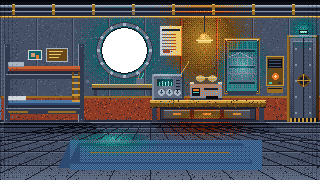
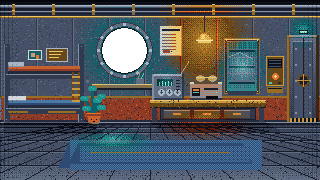
Add generative music, Chuck the plant, out-of-gas chainsaw

Changed region(s): [[0.25, 0.4722, 0.3438, 0.6944]]

diff --git a/src/audio/audio.ts b/src/audio/audio.ts
@@ -22,6 +22,7 @@ export class AudioEngine {
       const d = this.noiseBuf.getChannelData(0);
       for (let i = 0; i < len; i++) d[i] = Math.random() * 2 - 1;
       this.startAmbience();
+      this.startMusic();
     } catch { this.ctx = undefined; }
   }
 
@@ -46,12 +47,13 @@ export class AudioEngine {
   setRoom(room: string) {
     if (!this.amb || !this.ctx) return;
     const t = this.ctx.currentTime;
-    const cfg = { workshop: [60, 320, 520, 0.05], converter: [48, 200, 260, 0.075], quarters: [72, 240, 700, 0.04] }[room] ?? [55, 260, 500, 0.05];
+    const cfg = { workshop: [60, 320, 520, 0.03], converter: [48, 200, 260, 0.045], quarters: [72, 240, 700, 0.025] }[room] ?? [55, 260, 500, 0.05];
     this.amb.hum.frequency.setTargetAtTime(cfg[0], t, 0.4);
     this.amb.hum2.frequency.setTargetAtTime(cfg[0] * 2.01, t, 0.4);
     this.amb.filt.frequency.setTargetAtTime(cfg[1], t, 0.4);
     this.amb.nfilt.frequency.setTargetAtTime(cfg[2], t, 0.4);
     this.amb.gain.gain.setTargetAtTime(cfg[3], t, 0.4);
+    this.roomDensity = { workshop: 0.5, converter: 0.35, quarters: 0.45 }[room] ?? 0.45;
   }
 
   private env(g: GainNode, t: number, a: number, peak: number, d: number) {
@@ -96,6 +98,69 @@ export class AudioEngine {
       case 'door': this.noise(t, 0.35, 0.28, 'lowpass', 700, 120); this.tone('sawtooth', 80, 50, t, 0.3, 0.1); break;
       default: break;
     }
+  }
+
+  // ---- generative music: slow minor pads, a soft bass and sparse echoing plucks
+  private musicBus?: GainNode;
+  private musicTimer = 0;
+  private nextBar = 0;
+  private bar = 0;
+  private roomDensity = 0.45;
+  private static CHORDS = [
+    [146.8, 174.6, 220, 329.6], // Dm9
+    [116.5, 146.8, 174.6, 220], // Bbmaj7
+    [196, 233.1, 293.7, 440], // Gm
+    [110, 146.8, 164.8, 196], // A7sus4
+  ];
+  private static PLUCK = [587.3, 698.5, 784, 880, 1046.5, 1174.7];
+
+  private startMusic() {
+    const c = this.ctx!;
+    const bus = c.createGain(); bus.gain.value = 0.9;
+    const dry = c.createGain(); dry.gain.value = 0.8;
+    const delay = c.createDelay(1.5); delay.delayTime.value = 0.62;
+    const fb = c.createGain(); fb.gain.value = 0.38;
+    const lp = c.createBiquadFilter(); lp.type = 'lowpass'; lp.frequency.value = 1800;
+    bus.connect(dry); dry.connect(this.master!);
+    bus.connect(delay); delay.connect(lp); lp.connect(fb); fb.connect(delay); lp.connect(this.master!);
+    this.musicBus = bus;
+    this.nextBar = c.currentTime + 0.3;
+    this.musicTimer = window.setInterval(() => this.scheduleMusic(), 300);
+  }
+
+  private scheduleMusic() {
+    const c = this.ctx!;
+    while (this.nextBar < c.currentTime + 1.2) {
+      const t = this.nextBar, chord = AudioEngine.CHORDS[this.bar % 4];
+      const barLen = 7;
+      for (const [i, f] of chord.entries()) this.padVoice(f, t + i * 0.12, barLen + 1.5, i === 0 ? 0.05 : 0.035);
+      this.padVoice(chord[0] / 2, t, barLen, 0.06);
+      for (let b = 0; b < 4; b++) {
+        if (Math.random() < this.roomDensity) {
+          const f = Math.random() < 0.6 ? chord[Math.floor(Math.random() * chord.length)] * 4 : AudioEngine.PLUCK[Math.floor(Math.random() * AudioEngine.PLUCK.length)];
+          this.pluck(f, t + b * (barLen / 4) + Math.random() * 0.3, 0.05);
+        }
+      }
+      this.nextBar += barLen;
+      this.bar++;
+    }
+  }
+  private padVoice(f: number, t: number, dur: number, vol: number) {
+    const c = this.ctx!;
+    const g = c.createGain(); const lp = c.createBiquadFilter(); lp.type = 'lowpass'; lp.frequency.value = 900;
+    g.gain.setValueAtTime(0.0001, t); g.gain.linearRampToValueAtTime(vol, t + dur * 0.35); g.gain.linearRampToValueAtTime(0.0001, t + dur);
+    lp.connect(g); g.connect(this.musicBus!);
+    for (const [type, det] of [['triangle', -4], ['sine', 5]] as [OscillatorType, number][]) {
+      const o = c.createOscillator(); o.type = type; o.frequency.value = f; o.detune.value = det;
+      o.connect(lp); o.start(t); o.stop(t + dur + 0.1);
+    }
+  }
+  private pluck(f: number, t: number, vol: number) {
+    const c = this.ctx!;
+    const o = c.createOscillator(); const g = c.createGain();
+    o.type = 'triangle'; o.frequency.value = f;
+    g.gain.setValueAtTime(0.0001, t); g.gain.linearRampToValueAtTime(vol, t + 0.01); g.gain.exponentialRampToValueAtTime(0.0001, t + 1.4);
+    o.connect(g); g.connect(this.musicBus!); o.start(t); o.stop(t + 1.5);
   }
 
   /** Four sparse notes. */

diff --git a/src/game/content.ts b/src/game/content.ts
@@ -308,6 +308,14 @@ export const BEHAVIOURS: Record<string, Behaviour> = {
       },
     },
   },
+  ws_chainsaw: {
+    look: one('A chainsaw. Mike swears the station needs one. The tag on the handle reads: OUT OF GAS.'),
+    use: one('I pull the cord. It coughs once and gives up. No gas, and nothing on this station burns it.'),
+    pickup: one('Too heavy, too loud, and entirely empty. It stays.'),
+    open: one('The tank is open already. Bone dry.'),
+    talk: one('It has nothing to say. It has nothing to burn, either.'),
+    useWith: { mug: () => [P('Coffee is not gas. Probably.')] },
+  },
   ws_intercom: {
     look: one('The workshop intercom. It reaches every room, including Cutie\'s.'),
     pickup: one('It is part of the wall.'),
@@ -371,6 +379,14 @@ export const BEHAVIOURS: Record<string, Behaviour> = {
 
   // ---------------- quarters
   qt_hatch: { look: one('The hatch back to the workshop.') },
+  qt_plant: {
+    look: one('Chuck, the potted plant. Teal leaves, rust pot, a look of polite expectation. He has outlasted three shift crews.'),
+    talk: () => [P('How is the beam looking, Chuck?'), P('He says nothing, but he leans a little closer to the viewport.')],
+    pickup: one('Chuck stays. Mike would never forgive me.'),
+    use: one('I give his leaves a gentle pat. He seems fine.'),
+    open: one('He is a plant, not a cupboard.'),
+    give: { mug: () => [P('Chuck refuses the cold coffee, which says something about the coffee.')] },
+  },
   qt_bunks: {
     look: one('Two bunks. Mine is the one without a boot print on the pillow.'),
     use: one('Not now. There is a beam to watch.'),
@@ -585,7 +601,7 @@ export function resolve(s: GameState, verb: string, a: Ref, b?: Ref): Step[] {
 }
 
 /** Hotspots that can start a Give (valid recipients). */
-export const GIVE_TARGETS = new Set(['cv_cutie', 'qt_donovan']);
+export const GIVE_TARGETS = new Set(['cv_cutie', 'qt_donovan', 'qt_plant']);
 
 export const OPENING: Step[] = [
   say('donovan_ic', 'Greg, the electron storm reaches the beam in a few hours, and Cutie still will not take orders from us.'),

diff --git a/src/game/rooms.ts b/src/game/rooms.ts
@@ -34,6 +34,7 @@ export const HOTSPOTS: HotspotDef[] = [
   hs('ws_arm', 'arm assembly', 'workshop', [172, 102, 16, 12], [188, 134], { visible: (s) => has(s, 'drawerOpen') && !has(s, 'armTaken') }),
   hs('ws_module', 'positronic module', 'workshop', [190, 102, 16, 12], [188, 134], { visible: (s) => has(s, 'drawerOpen') && !has(s, 'moduleTaken') }),
   hs('ws_robot', 'maintenance robot', 'workshop', [207, 78, 34, 46], [224, 136]),
+  hs('ws_chainsaw', 'chainsaw', 'workshop', [34, 78, 24, 46], [46, 134]),
   hs('ws_intercom', 'intercom', 'workshop', [247, 60, 24, 34], [258, 134], { face: 1 }),
 
   // ---- Converter Chamber
@@ -50,6 +51,7 @@ export const HOTSPOTS: HotspotDef[] = [
   hs('qt_hatch', 'hatch to Assembly Workshop', 'quarters', [288, 34, 30, 90], [278, 140], { face: 1, exit: { to: 'workshop', x: 30, y: 138, face: 1 } }),
   hs('qt_bunks', 'bunks', 'quarters', [2, 42, 86, 82], [56, 136]),
   hs('qt_viewport', 'viewport', 'quarters', [96, 22, 58, 58], [128, 134]),
+  hs('qt_plant', 'Chuck the plant', 'quarters', [83, 86, 20, 38], [94, 136]),
   hs('qt_mug', 'mug', 'quarters', [98, 74, 14, 11], [104, 134], { visible: (s) => !has(s, 'mugTaken') && !has(s, 'mugGiven') }),
   hs('qt_sheet', 'technical reference sheet', 'quarters', [158, 24, 26, 34], [170, 134]),
   hs('qt_receiver', 'observation receiver', 'quarters', [150, 72, 36, 30], [166, 134]),

diff --git a/scripts/art/room-workshop.ts b/scripts/art/room-workshop.ts
@@ -128,6 +128,16 @@ export function paintWorkshop() {
   // wall clock / gauge
   bg.ellipse(190, 40, 6, 6, C.brass2); bg.ellipse(190, 40, 5, 5, C.steel5); bg.line(190, 40, 190, 36, C.void1); bg.line(190, 40, 193, 41, C.void1);
 
+  // chainsaw leaning against the wall beside the bench (out of gas)
+  bg.rect(43, 80, 5, 30, C.steel4); bg.rect(43, 80, 1, 30, C.steel5); bg.rect(47, 80, 1, 30, C.steel2);
+  for (let y = 81; y < 108; y += 3) { bg.set(42, y, C.void2); bg.set(48, y, C.void2); }
+  bg.rect(38, 108, 16, 12, C.amber2); bg.rect(38, 108, 16, 2, C.amber3); bg.rect(38, 118, 16, 2, C.amber1);
+  bg.rect(40, 111, 6, 4, C.void1); bg.rect(48, 110, 4, 3, C.brass3); bg.set(49, 111, C.void1);
+  bg.rect(35, 106, 3, 12, C.void2); bg.rect(35, 106, 8, 2, C.void2);
+  bg.rect(50, 120, 3, 3, C.void2);
+  bg.rect(52, 100, 8, 6, C.steel5); bg.set(54, 102, C.void2); bg.set(55, 102, C.void2); bg.rect(54, 104, 4, 1, C.amber2); // tag: OUT OF GAS
+  bg.line(52, 106, 49, 111, C.void3);
+
   // lighting
   bg.light(108, 38, 62, 0.95, 'warm', 1.15);
   bg.light(222, 40, 68, 0.9, 'warm', 1.1);

diff --git a/scripts/art/room-quarters.ts b/scripts/art/room-quarters.ts
@@ -102,6 +102,14 @@ export function paintQuarters() {
   // mug stays in a runtime prop; bunk lamp
   bg.rect(86, 80, 3, 3, C.steel2);
 
+  // Chuck, the potted plant (teal foliage, rust pot, suspiciously attentive)
+  const px = 93;
+  for (const [x1, y1, w] of [[84, 98, 3], [101, 96, 3], [92, 88, 3], [86, 108, 2], [101, 107, 2], [97, 100, 2]] as [number, number, number][]) {
+    bg.line(px, 114, x1, y1, C.teal1, w); bg.ellipse(x1, y1, 4, 2.5, C.teal2); bg.set(x1 - 1, y1 - 1, C.teal3); bg.set(x1 + 1, y1, C.teal3);
+  }
+  bg.poly([[87, 114], [100, 114], [98, 124], [89, 124]], C.rust1); bg.rect(86, 113, 15, 3, C.rust0); bg.rect(86, 113, 15, 1, C.amber2);
+  bg.set(91, 119, C.void0); bg.set(96, 119, C.void0); bg.set(93, 121, C.void0); bg.set(94, 121, C.void0);
+
   // lighting
   bg.light(204, 40, 62, 0.9, 'warm', 1.1);
   bg.light(204, 120, 60, 0.7, 'warm', 0.4);
